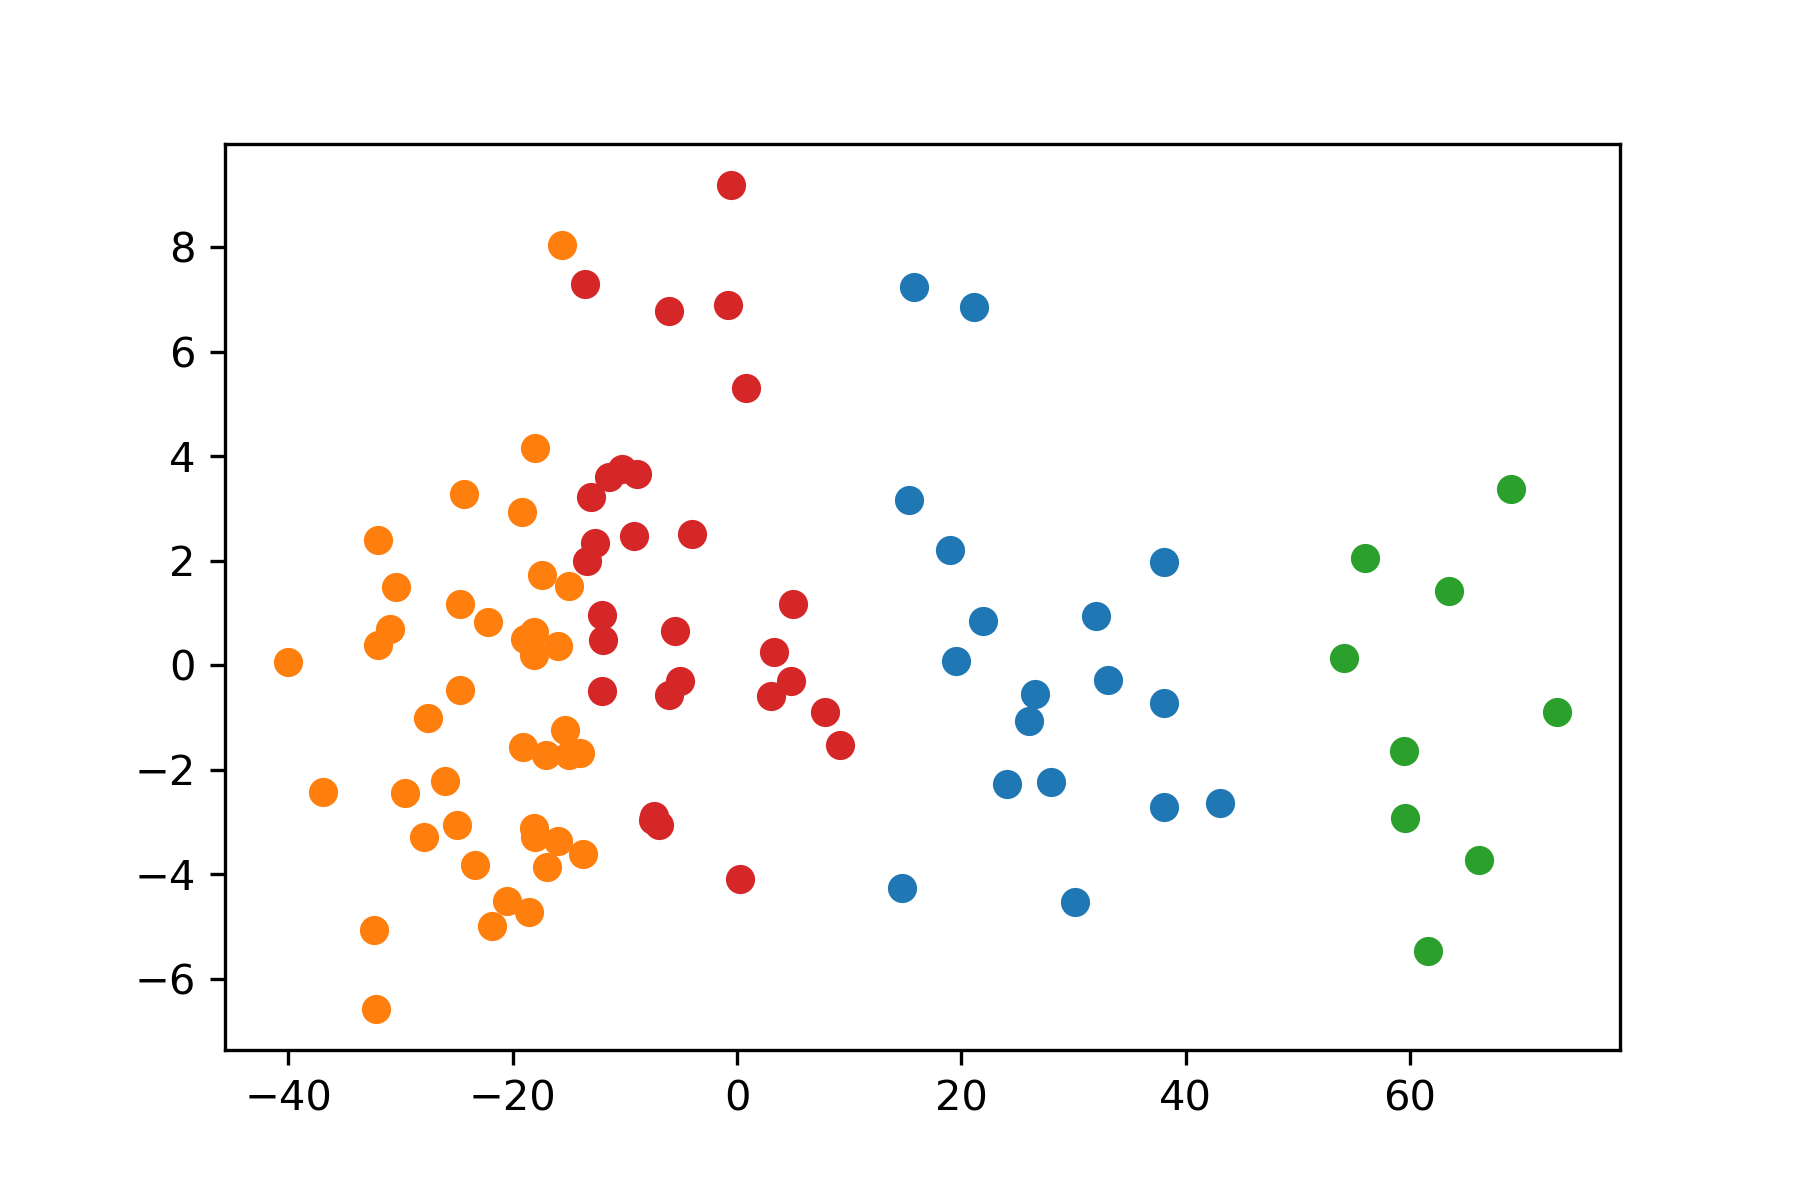
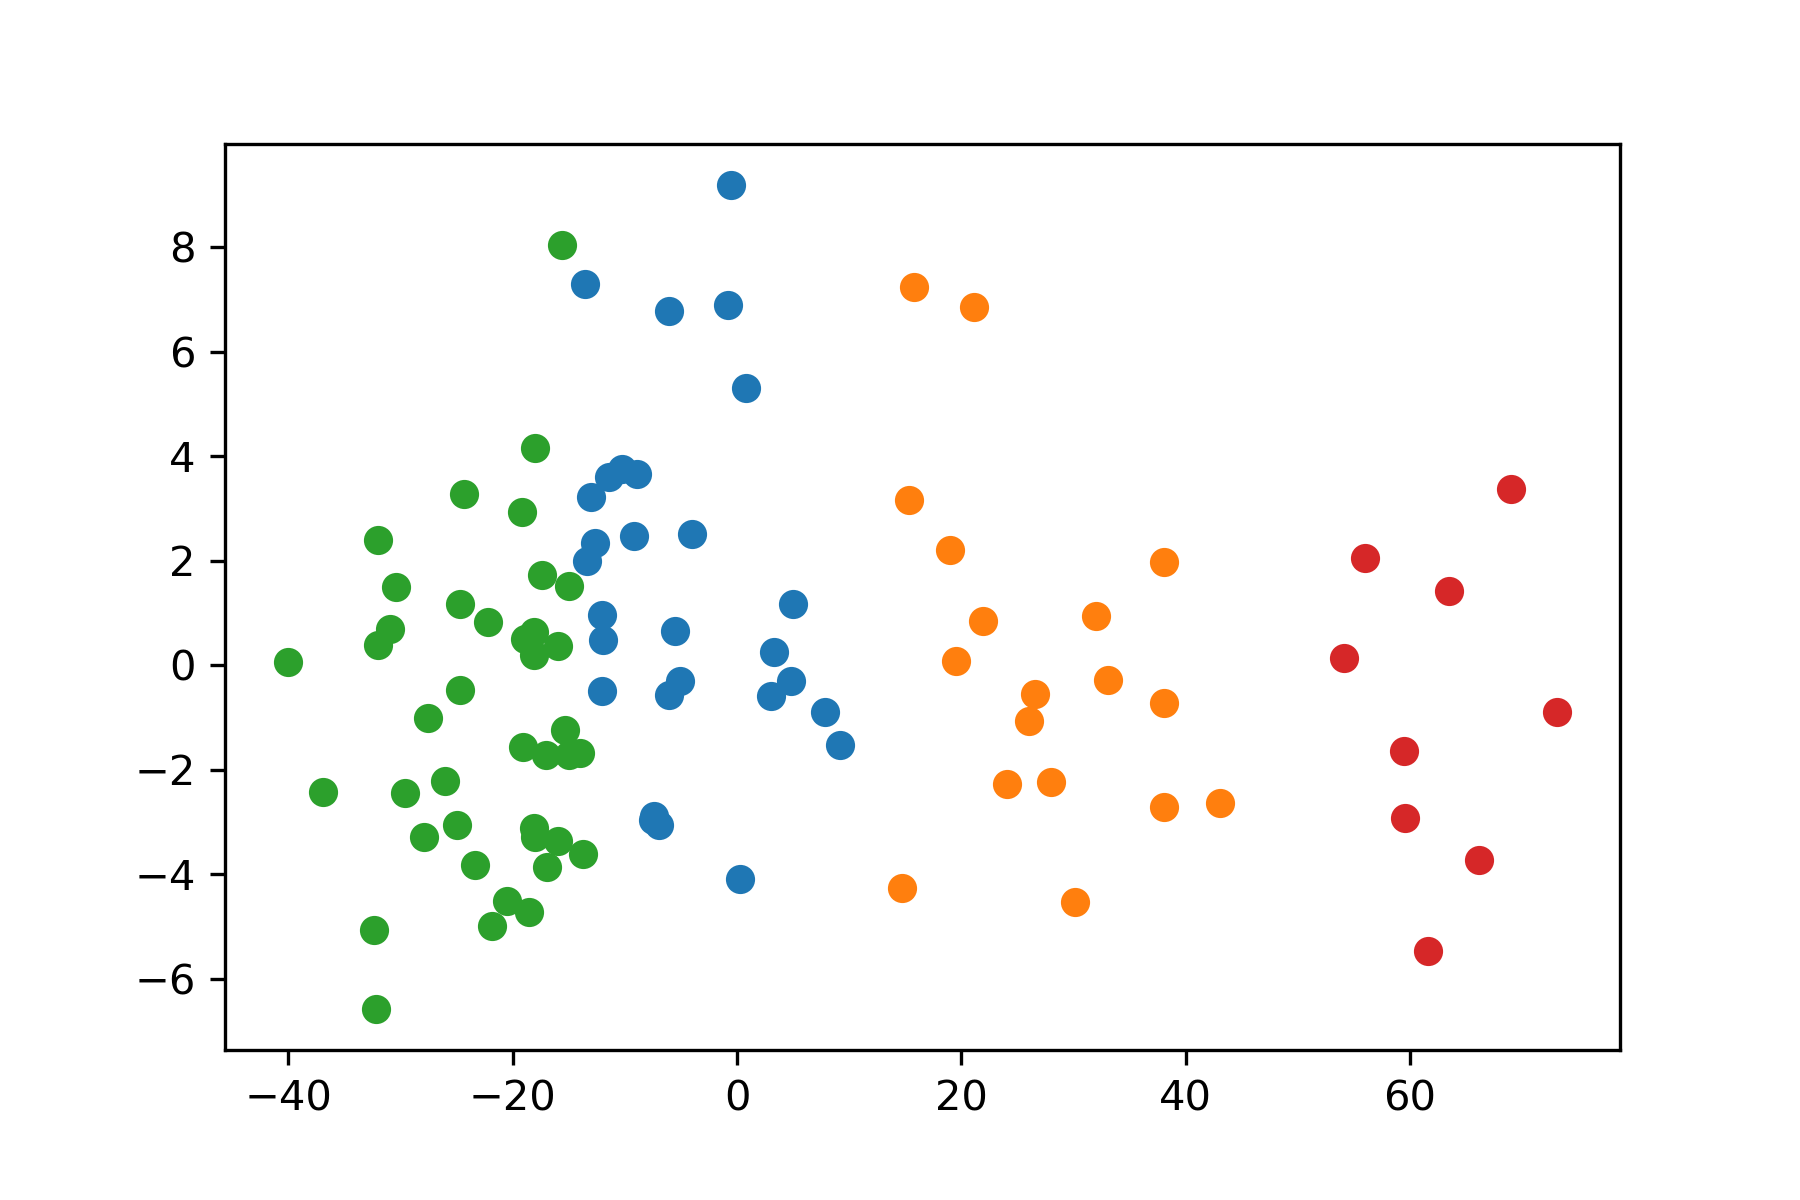
report update

diff --git a/README.md b/README.md
@@ -40,9 +40,12 @@ For analysis, in [music_PCA.ipynb](https://github.com/ucsd-dsc-arts/dsc160-midte
 
 **Interactive versions of all charts are in [/code/bokeh_plots](https://github.com/ucsd-dsc-arts/dsc160-midterm-group-8/blob/master/code/bokeh_plots.ipynb).**
 
-The following is the result of clustering the 1st and 2nd PCA dimension of our feature space. The clusters, unsurprisingly, are not very  distinct, although we can see a clear central mass and variation in both dimensions.
+The following is the result of clustering the 1st and 2nd PCA dimension of our feature space. We set the number of clusters to 4 to represent the 4 different decades that the musics are from. The clusters, unsurprisingly, are not very  distinct, although we can see a clear central mass and variation in both dimensions (more distinct in dim1 than dim2).  
 
 ![PCA 2D](results/KNN_cluster.PNG)
+
+To compare the members of the clusters against the year they are published, we can see that cluster 2 and 3 has a seemingly higher exclusivity for musics from a certain time period (00-20s or 80-00s). The other two clusters have relatively higher variability in representing musics from different time period. 
+![pca dim1 vs year](results/cluster_vs_year.PNG)
 
 This next plot uses PCA once again to reduce our data to one dimension, then plots that dimension against song year. We observe an association between the two. Subsequently, we verify the correlation with r = 0.232357, with a p-value of 0.022721.  
 
